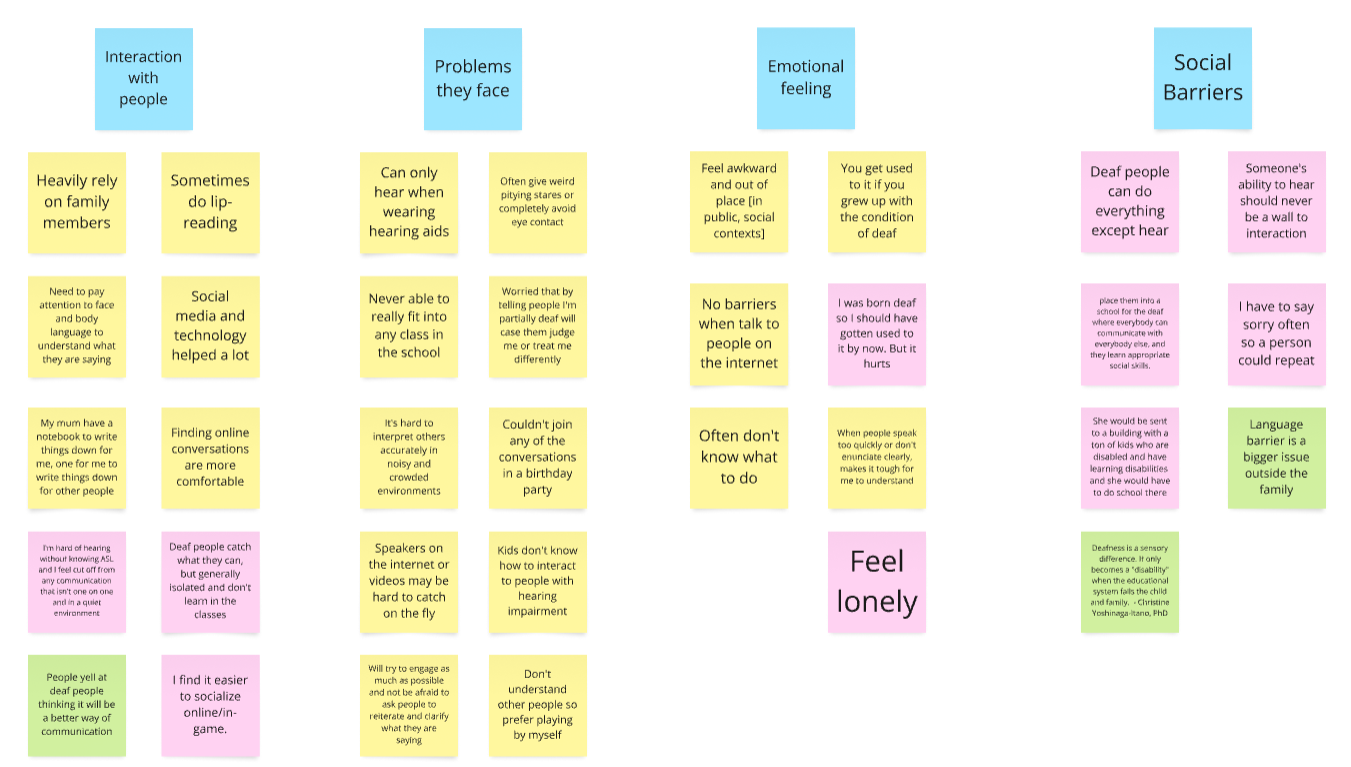
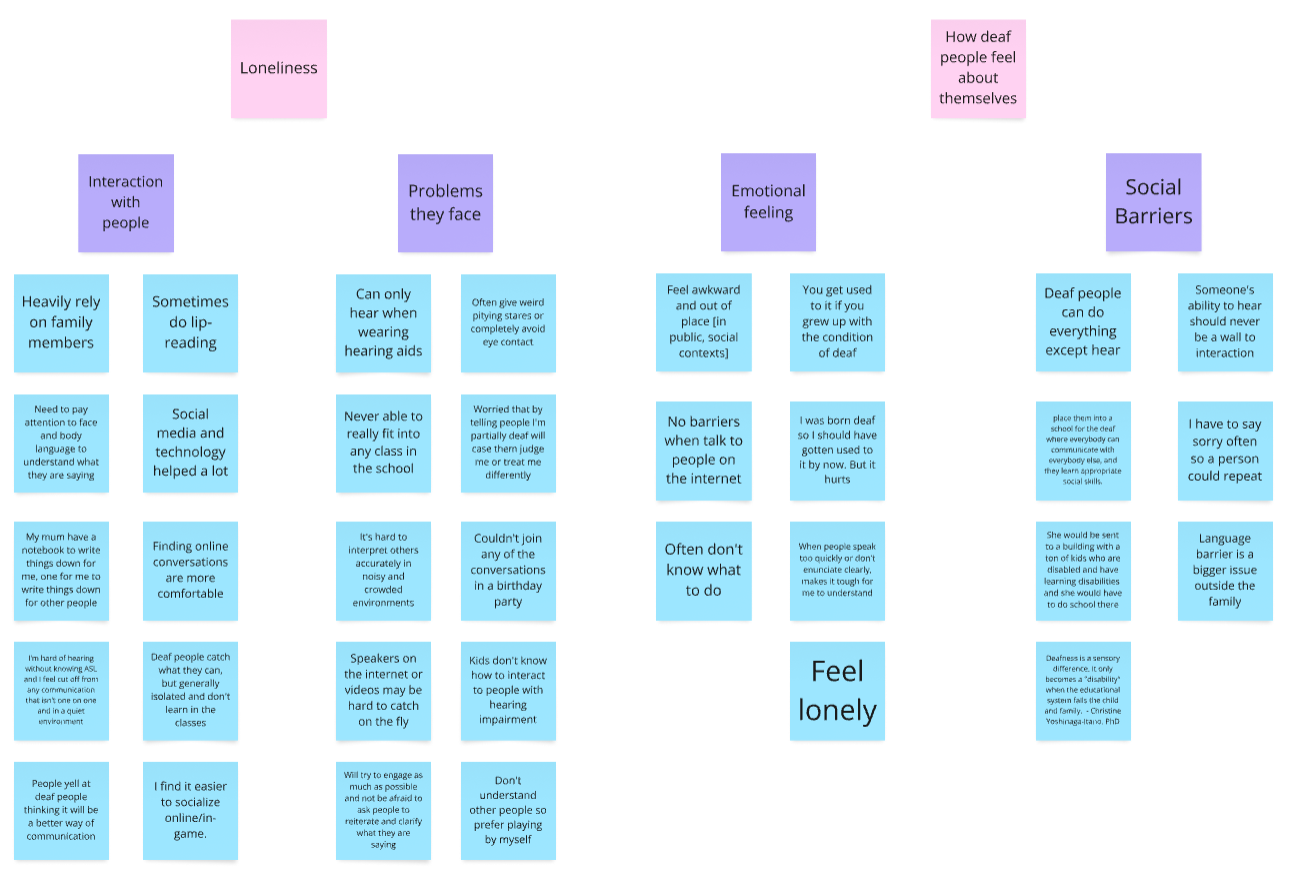
modified affinity

diff --git a/Projects/QuietQuarters/index.html b/Projects/QuietQuarters/index.html
@@ -143,14 +143,14 @@
                 The two perspectives gives us a more holistic approach to understanding diabetes management, 
                 helping us identify key challenges, improve patient support, and develop more effective, 
                 practical solutions tailored to both medical and daily life needs. <br><br>
-                After collecting the recordings from the user interviews, 
+                After collecting the recordings from the user interviews and surveys, 
                 I conducted affinity mapping with my teammates to synthesise the pains identified. 
                 We grouped these problems under common themes and features in the platform.
             
             </div> <br>
 
 
-            <div class="div-block-57"><img src="images\GlucoEase affinity diagram.webp"
+            <div class="div-block-57"><img src="images\Quiet Quarters Affinity Diagram.png"
                     srcset="images\GlucoEase-Affinity-Diagram 500.png 500w, images\GlucoEase-Affinity-Diagram 800.png 800w, images\GlucoEase-Affinity-Diagram 1080.png 1080w, images\GlucoEase-Affinity-Diagram 1600.png 1600w, images\GlucoEase-Affinity-Diagram 2000.png 2000w, images\GlucoEase affinity diagram.webp 2500w"
                     sizes="(max-width: 479px) 92vw, (max-width: 767px) 95vw, (max-width: 991px) 92vw, 63vw" alt="">
             </div><br>
